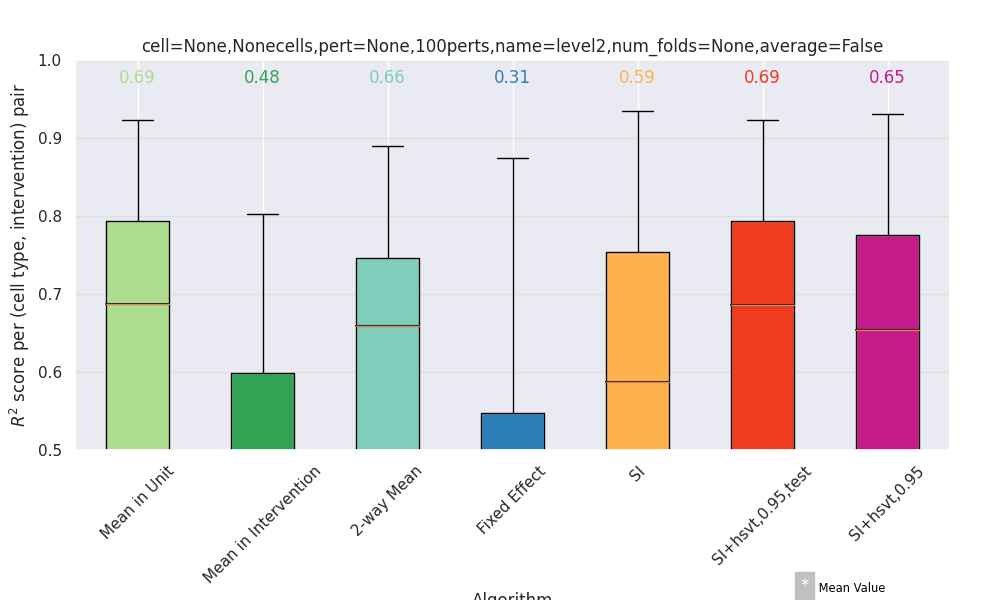
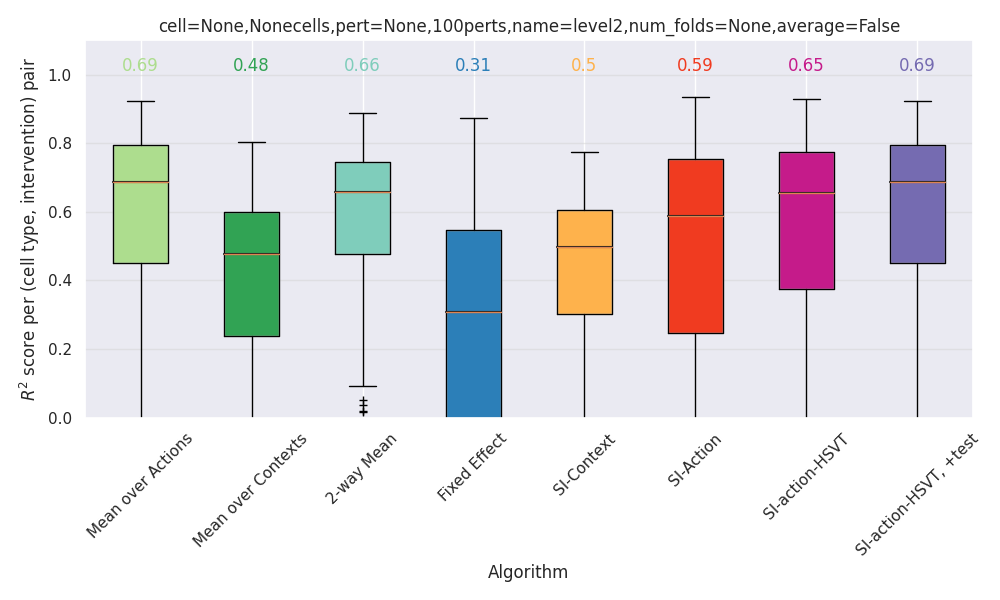
improve umap visualizations

diff --git a/evaluation/helpers/evaluation_manager.py b/evaluation/helpers/evaluation_manager.py
@@ -14,14 +14,14 @@ boxColors = ['#addd8e', '#31a354', '#7fcdbb', '#2c7fb8',
 
 energy = 0.95
 alg_names = {
-    'alg=impute_unit_mean': 'Mean in Unit',
-    'alg=impute_intervention_mean': 'Mean in Intervention',
+    'alg=impute_unit_mean': 'Mean over Actions',
+    'alg=impute_intervention_mean': 'Mean over Contexts',
     'alg=impute_two_way_mean': '2-way Mean',
     'alg=predict_intervention_fixed_effect,control_intervention=DMSO': 'Fixed Effect',
-    f'alg=predict_synthetic_intervention_ols,num_desired_donors=None,donor_dim=intervention': f'SI in Unit',
-    f'alg=predict_synthetic_intervention_ols,num_desired_donors=None,donor_dim=unit': f'SI in Intervention',
-    # f'alg=predict_synthetic_control_unit_hsvt_ols,num_desired_interventions=None,energy={energy},hypo_test=True,hypo_test_percent=0.1': f'SI+hsvt,{energy},test',
-    # f'alg=predict_synthetic_control_unit_hsvt_ols,num_desired_interventions=None,energy={energy},hypo_test=False': f'SI+hsvt,{energy}',
+    f'alg=predict_synthetic_intervention_ols,num_desired_donors=None,donor_dim=unit': f'SI-Context',
+    f'alg=predict_synthetic_intervention_ols,num_desired_donors=None,donor_dim=intervention': f'SI-Action',
+    # f'alg=predict_synthetic_intervention_hsvt_ols,num_desired_donors=None,energy=0.95,hypo_test=False,donor_dim=intervention': f'SI-action-HSVT',
+    # f'alg=predict_synthetic_intervention_hsvt_ols,num_desired_donors=None,energy=0.95,hypo_test=True,hypo_test_percent=0.1,donor_dim=intervention': f'SI-action-HSVT, +test',
     # 'alg=predict_synthetic_control_unit_hsvt_ols,num_desired_interventions=None,energy=0.8': 'SI+hsvt,.8',
     # 'alg=predict_synthetic_control_unit_hsvt_ols,num_desired_interventions=None,progress=False,energy=0.8': 'SI+hsvt,.8',
 }
@@ -142,3 +142,57 @@ class EvaluationManager:
         plt.title("")
         plt.savefig(os.path.expanduser(f'~/Desktop/cmap-imputation/causal-imputation-r2-per-iv-{self.prediction_manager.result_string}.png'))
         print(f"Saved to {os.path.abspath(filename)}")
+
+    def statistic_vs_best(self):
+        s = 'alg=predict_synthetic_intervention_hsvt_ols,num_desired_donors=None,energy=0.95,hypo_test=True,hypo_test_percent=0.1,donor_dim=intervention,equal_rank=True'
+        stats_filename = self.prediction_manager.statistic_filenames[s]
+        stats = pd.read_pickle(stats_filename)
+        r2s = self.r2()
+        r2s_best = r2s.groupby('fold_ix').max()
+
+        stats = stats.values[:, 0] + np.random.normal(0, .05, size=len(stats))
+
+        plt.clf()
+        plt.scatter(stats, r2s_best.values)
+        plt.xlabel("Statistic")
+        plt.ylabel("Best R^2")
+        plt.ylim([0, 1])
+        plt.savefig(os.path.expanduser(f'~/Desktop/cmap-imputation/statistic-vs-best_{self.prediction_manager.result_string}.png'))
+
+        plt.clf()
+        r2s_mean = r2s[r2s.index.get_level_values('alg') == 'alg=impute_unit_mean']
+        plt.scatter(stats, r2s_mean.values)
+        plt.xlabel("Statistic")
+        plt.ylabel("R^2 of mean-over-actions")
+        plt.ylim([0, 1])
+        plt.savefig(os.path.expanduser(f'~/Desktop/cmap-imputation/statistic-vs-mean-r2_{self.prediction_manager.result_string}.png'))
+
+        plt.clf()
+        r2s_si_hsvt = r2s[r2s.index.get_level_values('alg') == 'alg=predict_synthetic_intervention_hsvt_ols,num_desired_donors=None,energy=0.95,hypo_test=True,hypo_test_percent=0.1,donor_dim=intervention,equal_rank=True']
+        plt.scatter(stats, r2s_si_hsvt.values)
+        plt.xlabel("Statistic")
+        plt.ylabel("R^2 of SI-action")
+        plt.ylim([0, 1])
+        plt.savefig(os.path.expanduser(f'~/Desktop/cmap-imputation/statistic-vs-si-hsvt-r2_{self.prediction_manager.result_string}.png'))
+
+        plt.clf()
+        r2s_si = r2s[r2s.index.get_level_values('alg') == 'alg=predict_synthetic_intervention_ols,num_desired_donors=None,donor_dim=intervention']
+        plt.scatter(stats, r2s_si.values)
+        plt.xlabel("Statistic")
+        plt.ylabel("R^2 of SI-action")
+        plt.ylim([0, 1])
+        plt.savefig(os.path.expanduser(f'~/Desktop/cmap-imputation/statistic-vs-si-r2_{self.prediction_manager.result_string}.png'))
+
+        nan_ixs = np.isnan(stats)
+        stats = stats[~nan_ixs]
+        r2s_best = r2s_best.values[~nan_ixs].flatten()
+        r2s_mean = r2s_mean.values[~nan_ixs].flatten()
+        r2s_si_hsvt = r2s_si_hsvt.values[~nan_ixs].flatten()
+        r2s_si = r2s_si.values[~nan_ixs].flatten()
+
+        print(np.polyfit(stats[r2s_best > 0], r2s_best[r2s_best > 0], 1))
+        print(np.polyfit(stats[r2s_mean > 0], r2s_mean[r2s_mean > 0], 1))
+        print(np.polyfit(stats[r2s_si > 0], r2s_si[r2s_si > 0], 1))
+        print(np.polyfit(stats[r2s_si_hsvt > 0], r2s_si_hsvt[r2s_si_hsvt > 0], 1))
+
+        ipdb.set_trace()

diff --git a/scratch/plot_umap_interventions_single_celltype.py b/scratch/plot_umap_interventions_single_celltype.py
@@ -1,14 +1,16 @@
 import matplotlib.pyplot as plt
-from filenames import load_pert_info, load_cmap_original
+from filenames import load_pert_info, load_cmap_original, load_cmap_filtered
 import seaborn as sns
 from sklearn.decomposition import PCA
 import numpy as np
 from utils import pandas_minmax
 import umap
-from matplotlib.patches import Patch
+from matplotlib.patches import Patch, Circle
 import itertools as itr
 import random
+from matplotlib.lines import Line2D
 sns.set()
+# sns.set_style('white')
 
 DO_PCA = False
 if DO_PCA:
@@ -19,11 +21,11 @@ else:
 colormap = plt.get_cmap('tab20')
 colormap = list(itr.chain.from_iterable(itr.repeat(colormap.colors, 4)))
 
-data = load_cmap_original()
+data = load_cmap_filtered()
 data = data[data.index.get_level_values("cell_id") == 'VCAP']
 num_samples_per_pert = data.groupby("pert_id").size()
 highly_sampled_perts = num_samples_per_pert[num_samples_per_pert > 20]
-perts = random.sample(list(highly_sampled_perts.index), 70)
+perts = random.sample(list(highly_sampled_perts.index), 70) + ["DMSO"]
 data = data[data.index.get_level_values("pert_id").isin(set(perts))]
 data = data.groupby("pert_id").head(100)
 
@@ -38,16 +40,23 @@ if MINMAX:
 print("Embedding")
 embedded_data = reducer.fit_transform(data)
 
+control_ixs = data.index.get_level_values('pert_id') == 'DMSO'
+control_data = data[control_ixs]
+pert_data = data[~control_ixs]
+control_embedded_data = embedded_data[control_ixs]
+pert_embedded_data = embedded_data[~control_ixs]
+
 print("Plotting, colored by cell type")
 plt.clf()
-pert2ix = {pert: ix for ix, pert in enumerate(perts)}
-colors = data.index.get_level_values('pert_id').map(pert2ix)
+pert2ix = {pert: ix for ix, pert in enumerate(perts[:-1])}
+colors = pert_data.index.get_level_values('pert_id').map(pert2ix)
 colors = [colormap[c] for c in colors]
-plt.scatter(embedded_data[:, 0], embedded_data[:, 1], c=colors)
+plt.scatter(control_embedded_data[:, 0], control_embedded_data[:, 1], s=100, color='k')
+plt.scatter(pert_embedded_data[:, 0], pert_embedded_data[:, 1], c=colors, s=10, alpha=.5)
 lgd = plt.legend(
     handles=[
-        Patch(color=colormap[ix], label=pert) for pert, ix in pert2ix.items()
-    ],
+        Line2D([0], [0], marker='o', color='w', markerfacecolor=colormap[ix], label=pert, alpha=.5) for pert, ix in pert2ix.items()
+    ] + [Line2D([0], [0], marker='o', markersize=15, color='w', markerfacecolor='k', label='DMSO')],
     ncol=4,
     bbox_to_anchor=(1.05, 1),
     fontsize='small'

diff --git a/scratch/umap_all.py b/scratch/umap_all.py
@@ -46,13 +46,21 @@ embedded_data = reducer.fit_transform(data)
 num_control = control_data.shape[0]
 print("Plotting, colored by cell type")
 plt.clf()
+fig, [ax1, ax2] = plt.subplots(1, 2, sharey=True)
+fig.set_size_inches(12, 6)
+ax1.set_aspect('equal', adjustable='box')
+ax2.set_aspect('equal', adjustable='box')
 cell2ix = {cell: ix for ix, cell in enumerate(set(data.index.get_level_values('cell_id')))}
 control_colors = control_data.index.get_level_values('cell_id').map(cell2ix)
 control_colors = [colormap[c] for c in control_colors]
 pert_colors = pert_data.index.get_level_values('cell_id').map(cell2ix)
 pert_colors = [colormap[c] for c in pert_colors]
-plt.scatter(embedded_data[:num_control, 0], embedded_data[:num_control, 1], c=control_colors, alpha=.1, s=100, linewidths=1)
-plt.scatter(embedded_data[num_control:, 0], embedded_data[num_control:, 1], c=pert_colors, marker='P', s=20)
+# ax1.scatter(embedded_data[:num_control, 0], embedded_data[:num_control, 1], c=control_colors, alpha=.1, s=100, linewidths=1)
+# ax2.scatter(embedded_data[num_control:, 0], embedded_data[num_control:, 1], c=pert_colors, marker='P', s=20)
+ax1.scatter(embedded_data[:num_control, 0], embedded_data[:num_control, 1], c=control_colors)
+ax2.scatter(embedded_data[num_control:, 0], embedded_data[num_control:, 1], c=pert_colors)
+ax1.set_title('Control')
+ax2.set_title('Perturbation')
 lgd = plt.legend(
     handles=[
         Patch(color=colormap[ix], label=celltype) for celltype, ix in cell2ix.items()
@@ -61,7 +69,15 @@ lgd = plt.legend(
     bbox_to_anchor=(1.05, 1),
     fontsize='small'
 )
+# plt.title('Control')
+# plt.savefig('scratch/umap_celltype_coloring_dmso.png', bbox_inches='tight')
 plt.savefig('scratch/umap_celltype_coloring.png', bbox_extra_artists=(lgd, ), bbox_inches='tight')
+
+# plt.clf()
+# plt.scatter(embedded_data[num_control:, 0], embedded_data[num_control:, 1], c=pert_colors)
+# plt.gca().set_yticklabels([])
+# plt.title('Perturbation')
+# plt.savefig('scratch/umap_celltype_coloring_pert.png', bbox_extra_artists=(lgd, ), bbox_inches='tight')
 
 # print("Plotting, colored by pert type")
 # plt.clf()

diff --git a/evaluation/vary_perturbation_block.py b/evaluation/vary_perturbation_block.py
@@ -53,19 +53,30 @@ def run(name, average, num_perts):
             donor_dim='intervention',
             progress=False,
             overwrite=False,
-            multithread=False
+            multithread=False,
+            equal_rank=True
         )
-        pm.predict(
-            predict_synthetic_intervention_hsvt_ols,
-            num_desired_donors=None,
-            energy=energy,
-            hypo_test=True,
-            hypo_test_percent=.1,
-            donor_dim='unit',
-            progress=False,
-            overwrite=False,
-            multithread=False
-        )
+        # pm.predict(
+        #     predict_synthetic_intervention_hsvt_ols,
+        #     num_desired_donors=None,
+        #     energy=energy,
+        #     hypo_test=False,
+        #     donor_dim='intervention',
+        #     progress=False,
+        #     overwrite=False,
+        #     multithread=False
+        # )
+        # pm.predict(
+        #     predict_synthetic_intervention_hsvt_ols,
+        #     num_desired_donors=None,
+        #     energy=energy,
+        #     hypo_test=True,
+        #     hypo_test_percent=.1,
+        #     donor_dim='unit',
+        #     progress=False,
+        #     overwrite=False,
+        #     multithread=False
+        # )
 
         em = EvaluationManager(pm)
         r = em.r2()
@@ -74,6 +85,7 @@ def run(name, average, num_perts):
         # em.r2_in_iv()
         em.boxplot()
         em.boxplot_per_intervention()
+        em.statistic_vs_best()
 
         return r
 

diff --git a/evaluation/plot_utils.py b/evaluation/plot_utils.py
@@ -52,9 +52,8 @@ def boxplots(data_dict, boxColors, xlabel, ylabel, title, top=1, bottom=0, scale
             medians[i] = medianY[0]
         # Finally, overplot the sample averages, with horizontal alignment
         # in the center of each box
-        print(np.average(data[i]))
-        plt.plot([np.average(med.get_xdata())], [np.average(data[i])],
-                 color='w', marker='*', markeredgecolor='k')
+        # plt.plot([np.average(med.get_xdata())], [np.average(data[i])],
+        #          color='w', marker='*', markeredgecolor='k')
 
     # Set the axes ranges and axes labels
     ax1.set_xlim(0.5, numBoxes + 0.5)
@@ -69,9 +68,9 @@ def boxplots(data_dict, boxColors, xlabel, ylabel, title, top=1, bottom=0, scale
                  horizontalalignment='center', color=boxColors[tick]) # weight=weights[k]
 
     # Finally, add a basic legend
-    plt.figtext(0.80, 0.015, '*', color='white', backgroundcolor='silver',
-                weight='roman', size='medium')
-    plt.figtext(0.815, 0.013, ' Mean Value', color='black', weight='roman',
-                size='x-small')
+    # plt.figtext(0.80, 0.015, '*', color='white', backgroundcolor='silver',
+    #             weight='roman', size='medium')
+    # plt.figtext(0.815, 0.013, ' Mean Value', color='black', weight='roman',
+    #             size='x-small')
 
     plt.tight_layout()

diff --git a/src/algorithms/hsvt_regressor.py b/src/algorithms/hsvt_regressor.py
@@ -116,7 +116,7 @@ class MERegressor:
 
 
 class HSVTRegressor:
-    def __init__(self, center=True, energy=.95, sig_level=.05, hypo_test=True, hypo_test_percent=None, verbose=True, equal_rank=False):
+    def __init__(self, center=True, energy=.95, sig_level=.05, hypo_test=True, hypo_test_percent=None, verbose=True, equal_rank=False, hypo_test_override=False):
         self.center = center
         self.energy = energy
         self.coef_ = None
@@ -124,6 +124,7 @@ class HSVTRegressor:
         self.r1 = None
         self.verbose = verbose
         self.equal_rank = equal_rank
+        self.hypo_test_override = hypo_test_override
 
         # parameters needed for hypothesis test
         self.sig_level = sig_level
@@ -173,7 +174,7 @@ class HSVTRegressor:
 
             if stat > critval:
                 print(f"stat={stat}, critval={critval}, sigma={self.sigma}, r1={self.r1}, r2={r2}, n_d={self.num_shared_ivs}, t0={self.t0}, t1={num_dimensions}")
-            if stat > critval:
+            if stat > critval and self.hypo_test_override:
                 raise RejectionError(stat, critval)
 
         source_values = (u_mat*spectra) @ v_mat

diff --git a/src/algorithms/synthetic_interventions.py b/src/algorithms/synthetic_interventions.py
@@ -137,7 +137,7 @@ def synthetic_intervention_inner(
             # target_source = target_source.sort_index()  # 12%
             target_x_values = target_x.values.T
 
-            if isinstance(regressor, HSVTRegressor):
+            if isinstance(regressor, HSVTRegressor) and regressor.hypo_test:
                 prediction, stat, critval = regressor.predict(target_x_values)
                 statistic_data[ix] = [stat, critval]
             else:
@@ -199,7 +199,8 @@ def predict_synthetic_intervention_hsvt_ols(
         sig_level=.05,
         hypo_test_percent=None,
         donor_dim='intervention',
-        equal_rank=False
+        equal_rank=False,
+        hypo_test_override=False
 ):
     regressor = HSVTRegressor(
         center=center,
@@ -207,7 +208,8 @@ def predict_synthetic_intervention_hsvt_ols(
         sig_level=sig_level,
         hypo_test=hypo_test,
         hypo_test_percent=hypo_test_percent,
-        equal_rank=equal_rank
+        equal_rank=equal_rank,
+        hypo_test_override=hypo_test_override
     )
 
     predictor_no_training = partial(np.mean, axis=0)

diff --git a/evaluation/plot_statistics.py b/evaluation/plot_statistics.py
@@ -2,6 +2,7 @@ import matplotlib.pyplot as plt
 import os
 # import seaborn as sns
 import pandas as pd
+import numpy as np
 # sns.set()
 plt.style.use('ggplot')
 
@@ -29,10 +30,13 @@ print(statistics_iv.isna().sum())
 statistics_unit = statistics_unit[~statistics_unit.isna()]
 statistics_iv = statistics_iv[~statistics_iv.isna()]
 
+bins = np.linspace(0, 3, 11)
+hist_unit, _ = np.histogram(statistics_unit, bins=bins)
+hist_iv, _ = np.histogram(statistics_iv, bins=bins)
 plt.clf()
-plt.hist(statistics_unit, label='Unit', alpha=.5)
-plt.hist(statistics_iv, label='Intervention', alpha=.5)
+plt.bar(bins[:-1], hist_unit/hist_unit.sum(), label='Context', alpha=.5, width=3/10)
+plt.bar(bins[:-1], hist_iv/hist_iv.sum(), label='Intervention', alpha=.5, width=3/10)
 plt.xlabel('Statistic')
-plt.ylabel('Count')
+plt.ylabel('Frequency')
 plt.legend()
-plt.savefig('evaluation/statistics_histograms/test.png')
+plt.savefig('evaluation/statistics_histograms/statistic_histogram.png')

diff --git a/evaluation/helpers/prediction_manager.py b/evaluation/helpers/prediction_manager.py
@@ -66,6 +66,7 @@ class PredictionManager:
         print(f"[PredictionManager.__init__] done creating test/training indices")
 
         self.prediction_filenames = dict()
+        self.statistic_filenames = dict()
 
     def predict(
             self,
@@ -96,6 +97,7 @@ class PredictionManager:
         alg_results_filename = os.path.join(self.result_folder, full_alg_name + '.pkl')
         alg_stats_filename = os.path.join(self.result_folder, full_alg_name + '_stats.pkl')
         self.prediction_filenames[full_alg_name] = alg_results_filename
+        self.statistic_filenames[full_alg_name] = alg_stats_filename
 
         # if results already exist, just load them
         if not overwrite and os.path.exists(alg_results_filename):
@@ -147,6 +149,7 @@ class PredictionManager:
                 prediction_df.to_pickle(alg_results_filename)
 
         return prediction_df
+
 
 
 
